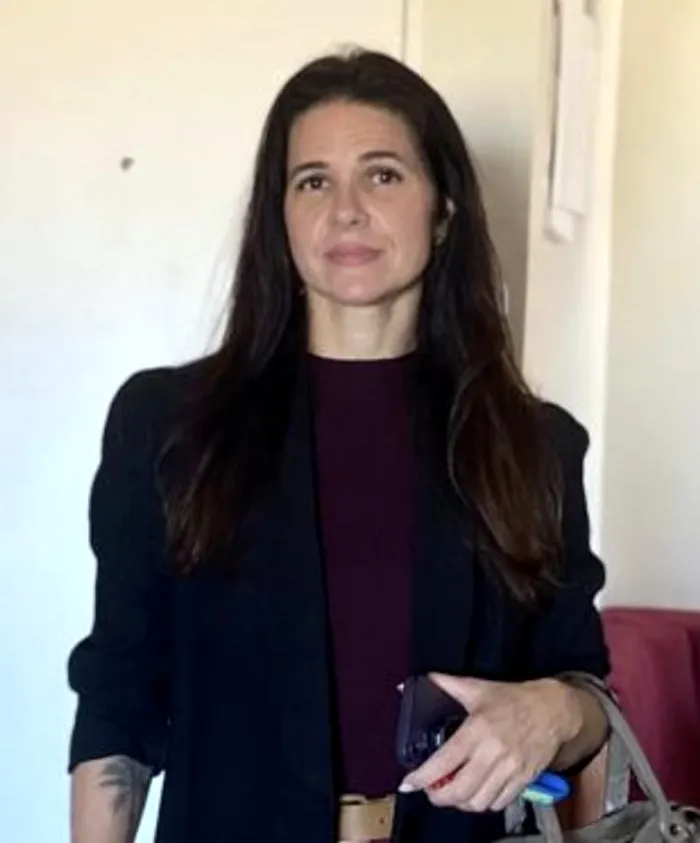
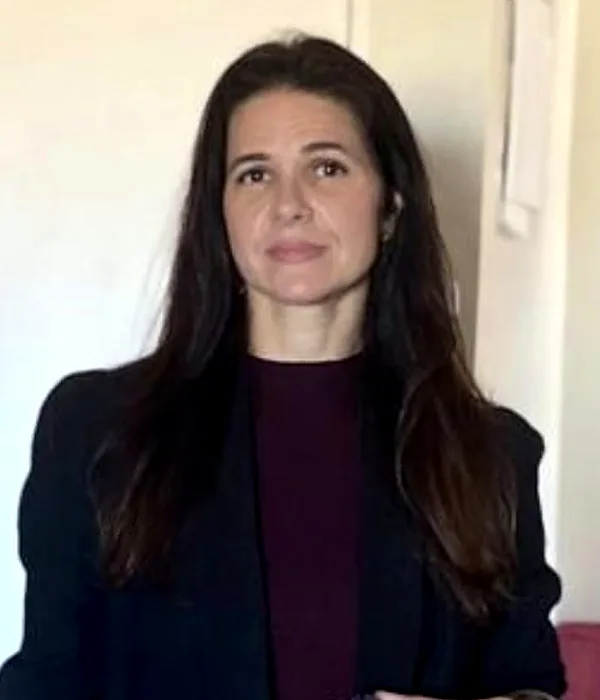
Foto da Carla reenquadrada como retrato
Claude-Session: https://claude.ai/code/session_01WwomsGs3j5YB3sqZeoTXbB

diff --git a/public/index.html b/public/index.html
@@ -185,7 +185,7 @@
       <div class="photo-frame">
         <picture>
           <source srcset="/img/carla-jansen.webp" type="image/webp">
-          <img src="/img/carla-jansen.jpg" alt="Carla Jansen, corretora de planos de saúde da Futura Rio no Rio de Janeiro" width="700" height="843" fetchpriority="high">
+          <img src="/img/carla-jansen.jpg" alt="Carla Jansen, corretora de planos de saúde da Futura Rio no Rio de Janeiro" width="600" height="700" fetchpriority="high">
         </picture>
       </div>
       <figcaption class="badge-card">
@@ -287,7 +287,7 @@
       <figure class="sobre__photo">
         <picture>
           <source srcset="/img/carla-jansen.webp" type="image/webp">
-          <img src="/img/carla-jansen.jpg" alt="Carla Jansen, corretora de planos de saúde há mais de 10 anos no Rio de Janeiro" width="700" height="843" loading="lazy">
+          <img src="/img/carla-jansen.jpg" alt="Carla Jansen, corretora de planos de saúde há mais de 10 anos no Rio de Janeiro" width="600" height="700" loading="lazy">
         </picture>
       </figure>
       <div class="sobre__exp" aria-hidden="true">

diff --git a/README.md b/README.md
@@ -46,7 +46,7 @@ Os leads ficam em `DATA_DIR/leads.json`. Use uma pasta/volume **persistente** e 
 
 | O que | Onde |
 |---|---|
-| Foto profissional da Carla (substituir `carla-jansen.jpg`/`.webp`, 700×843) | `public/img/` |
+| Foto profissional da Carla (substituir `carla-jansen.jpg`/`.webp`, 600×700) | `public/img/` |
 | Cores: azul #2B4C7F, azul profundo #0B386F, laranja #FE6E25 | `public/css/style.css` |
 | Logo (versão em alta resolução, PNG ou SVG) | `public/img/logo-futura-rio.png` |
 
